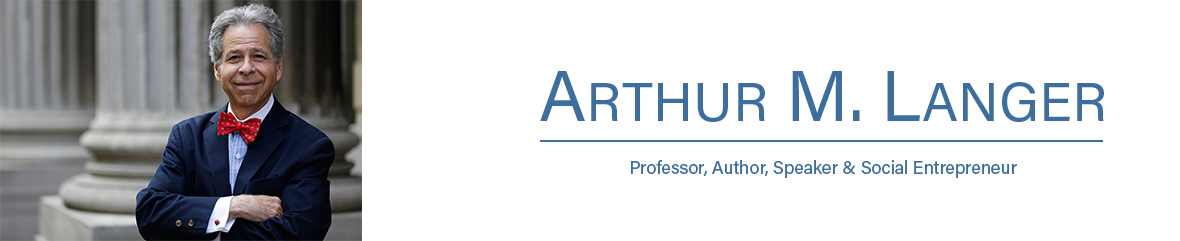
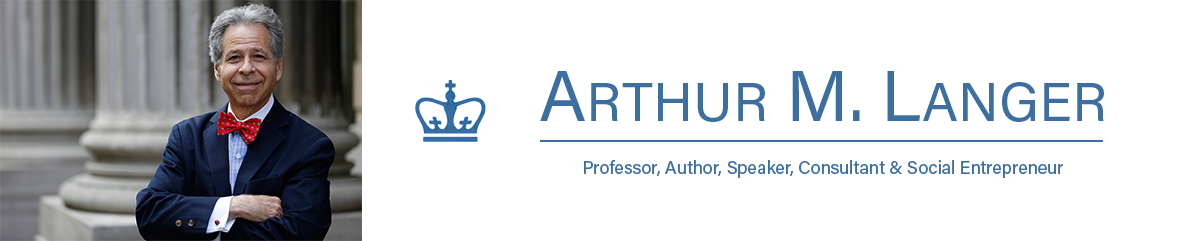
updated all page headers and footers to add consultant

Changed region(s): [[0.4881, 0.668, 0.9153, 0.7261], [0.3356, 0.3485, 0.4271, 0.61]]

diff --git a/index.html b/index.html
@@ -34,7 +34,7 @@
 </head>
 
 <body>
-    <div><a href="index.html"><img class="img-responsive img-center" src="images/Home Page Top2.png"></a></div>
+    <div><a href="index.html"><img class="img-responsive img-center" src="images/Home Page Top.png"></a></div>
 
     <!-- Navigation -->
     <nav class="navbar navbar-default" role="navigation">
@@ -55,9 +55,6 @@
             <div class="collapse navbar-collapse" id="bs-example-navbar-collapse-1">
                 <ul class="nav navbar-nav">
                     <li>
-                        <a href="about-art.html">About Art</a>
-                    </li>
-                    <li>
                         <a href="professor.html">Professor</a>
                     </li>
                     <li>
@@ -65,6 +62,9 @@
                     </li>
                     <li>
                         <a href="speaking.html">Speaker</a>
+                    </li>
+                    <li>
+                        <a href="about-art.html#alanger_associates">Consultant</a>
                     </li>
                     <li>
                         <a href="social-entrepreneur.html">Social Entrepreneur</a>
@@ -182,6 +182,7 @@
                         <p><strong>Phone (O): </strong>212-854-5218</p>
                         <p><strong>Phone (M): </strong>914-261-6142</p>
                         <p><a href="https://www.linkedin.com/in/arthur-langer-1ba610">LinkedIn Profile</a></p>
+                        <p><a href="about-art.html">About Art</a></p>
                     </div>
                     <div class="col-lg-8 publications">
                         <div class="col-lg-12">
@@ -217,9 +218,6 @@
         <div class="container">
             <div class="row">
                 <div class="col-lg-2 text-center">
-                    <a href="about-art.html"><p>About Art</p></a>
-                </div>
-                <div class="col-lg-2 text-center">
                     <a href="professor.html"><p>Professor</p></a>
                 </div>
                 <div class="col-lg-2 text-center">
@@ -227,6 +225,9 @@
                 </div>
                 <div class="col-lg-2 text-center">
                     <a href="speaking.html"><p>Speaker</p></a>
+                </div>
+                <div class="col-lg-2 text-center">
+                    <a href="about-art.html#alanger_associates"><p>Consultant</p></a>
                 </div>
                 <div class="col-lg-2 text-center">
                     <a href="social-Entrepreneur.html"><p>Social Entrepreneur</p></a>

diff --git a/professor.html b/professor.html
@@ -34,7 +34,7 @@
 </head>
 
 <body>
-    <div><a href="index.html"><img class="img-responsive img-center" src="images/Home Page Top 2.png"></a></div>
+    <div><a href="index.html"><img class="img-responsive img-center" src="images/Home Page Top.png"></a></div>
 
     <!-- Navigation -->
     <nav class="navbar navbar-default" role="navigation">
@@ -54,9 +54,6 @@
             <div class="collapse navbar-collapse" id="bs-example-navbar-collapse-1">
                 <ul class="nav navbar-nav">
                     <li>
-                        <a href="about-art.html">About Art</a>
-                    </li>
-                    <li>
                         <a href="professor.html">Professor</a>
                     </li>
                     <li>
@@ -64,6 +61,9 @@
                     </li>
                     <li>
                         <a href="speaking.html">Speaker</a>
+                    </li>
+                    <li>
+                        <a href="about-art.html#alanger_associates">Consultant</a>
                     </li>
                     <li>
                         <a href="social-entrepreneur.html">Social Entrepreneur</a>
@@ -118,9 +118,6 @@
         <div class="container">
             <div class="row">
                 <div class="col-lg-2 text-center">
-                    <a href="about-art.html"><p>About Art</p></a>
-                </div>
-                <div class="col-lg-2 text-center">
                     <a href="professor.html"><p>Professor</p></a>
                 </div>
                 <div class="col-lg-2 text-center">
@@ -128,6 +125,9 @@
                 </div>
                 <div class="col-lg-2 text-center">
                     <a href="speaking.html"><p>Speaker</p></a>
+                </div>
+                <div class="col-lg-2 text-center">
+                    <a href="about-art.html#alanger_associates"><p>Consultant</p></a>
                 </div>
                 <div class="col-lg-2 text-center">
                     <a href="social-Entrepreneur.html"><p>Social Entrepreneur</p></a>

diff --git a/research-publications-articles.html b/research-publications-articles.html
@@ -34,7 +34,7 @@
 </head>
 
 <body>
-    <div><a href="index.html"><img class="img-responsive img-center" src="images/Home Page Top 2.png"></a></div>
+    <div><a href="index.html"><img class="img-responsive img-center" src="images/Home Page Top.png"></a></div>
 
     <!-- Navigation -->
     <nav class="navbar navbar-default" role="navigation">
@@ -54,9 +54,6 @@
             <div class="collapse navbar-collapse" id="bs-example-navbar-collapse-1">
                 <ul class="nav navbar-nav">
                     <li>
-                        <a href="about-art.html">About Art</a>
-                    </li>
-                    <li>
                         <a href="professor.html">Professor</a>
                     </li>
                     <li>
@@ -64,6 +61,9 @@
                     </li>
                     <li>
                         <a href="speaking.html">Speaker</a>
+                    </li>
+                    <li>
+                        <a href="about-art.html#alanger_associates">Consultant</a>
                     </li>
                     <li>
                         <a href="social-entrepreneur.html">Social Entrepreneur</a>
@@ -130,9 +130,6 @@
         <div class="container">
             <div class="row">
                 <div class="col-lg-2 text-center">
-                    <a href="about-art.html"><p>About Art</p></a>
-                </div>
-                <div class="col-lg-2 text-center">
                     <a href="professor.html"><p>Professor</p></a>
                 </div>
                 <div class="col-lg-2 text-center">
@@ -140,6 +137,9 @@
                 </div>
                 <div class="col-lg-2 text-center">
                     <a href="speaking.html"><p>Speaker</p></a>
+                </div>
+                <div class="col-lg-2 text-center">
+                    <a href="about-art.html#alanger_associates"><p>Consultant</p></a>
                 </div>
                 <div class="col-lg-2 text-center">
                     <a href="social-Entrepreneur.html"><p>Social Entrepreneur</p></a>

diff --git a/social-entrepreneur.html b/social-entrepreneur.html
@@ -34,7 +34,7 @@
 </head>
 
 <body>
-    <div><a href="index.html"><img class="img-responsive img-center" src="images/Home Page Top 2.png"></a></div>
+    <div><a href="index.html"><img class="img-responsive img-center" src="images/Home Page Top.png"></a></div>
 
     <!-- Navigation -->
     <nav class="navbar navbar-default" role="navigation">
@@ -54,9 +54,6 @@
             <div class="collapse navbar-collapse" id="bs-example-navbar-collapse-1">
                 <ul class="nav navbar-nav">
                     <li>
-                        <a href="about-art.html">About Art</a>
-                    </li>
-                    <li>
                         <a href="professor.html">Professor</a>
                     </li>
                     <li>
@@ -64,6 +61,9 @@
                     </li>
                     <li>
                         <a href="speaking.html">Speaker</a>
+                    </li>
+                    <li>
+                        <a href="about-art.html#alanger_associates">Consultant</a>
                     </li>
                     <li>
                         <a href="social-entrepreneur.html">Social Entrepreneur</a>
@@ -119,9 +119,6 @@
         <div class="container">
             <div class="row">
                 <div class="col-lg-2 text-center">
-                    <a href="about-art.html"><p>About Art</p></a>
-                </div>
-                <div class="col-lg-2 text-center">
                     <a href="professor.html"><p>Professor</p></a>
                 </div>
                 <div class="col-lg-2 text-center">
@@ -129,6 +126,9 @@
                 </div>
                 <div class="col-lg-2 text-center">
                     <a href="speaking.html"><p>Speaker</p></a>
+                </div>
+                <div class="col-lg-2 text-center">
+                    <a href="about-art.html#alanger_associates"><p>Consultant</p></a>
                 </div>
                 <div class="col-lg-2 text-center">
                     <a href="social-Entrepreneur.html"><p>Social Entrepreneur</p></a>

diff --git a/speaking.html b/speaking.html
@@ -34,7 +34,7 @@
 </head>
 
 <body>
-    <div><a href="index.html"><img class="img-responsive img-center" src="images/Home Page Top 2.png"></a></div>
+    <div><a href="index.html"><img class="img-responsive img-center" src="images/Home Page Top.png"></a></div>
 
     <!-- Navigation -->
     <nav class="navbar navbar-default" role="navigation">
@@ -54,9 +54,6 @@
             <div class="collapse navbar-collapse" id="bs-example-navbar-collapse-1">
                 <ul class="nav navbar-nav">
                     <li>
-                        <a href="about-art.html">About Art</a>
-                    </li>
-                    <li>
                         <a href="professor.html">Professor</a>
                     </li>
                     <li>
@@ -64,6 +61,9 @@
                     </li>
                     <li>
                         <a href="speaking.html">Speaker</a>
+                    </li>
+                    <li>
+                        <a href="about-art.html#alanger_associates">Consultant</a>
                     </li>
                     <li>
                         <a href="social-entrepreneur.html">Social Entrepreneur</a>
@@ -159,9 +159,6 @@
         <div class="container">
             <div class="row">
                 <div class="col-lg-2 text-center">
-                    <a href="about-art.html"><p>About Art</p></a>
-                </div>
-                <div class="col-lg-2 text-center">
                     <a href="professor.html"><p>Professor</p></a>
                 </div>
                 <div class="col-lg-2 text-center">
@@ -169,6 +166,9 @@
                 </div>
                 <div class="col-lg-2 text-center">
                     <a href="speaking.html"><p>Speaker</p></a>
+                </div>
+                <div class="col-lg-2 text-center">
+                    <a href="about-art.html#alanger_associates"><p>Consultant</p></a>
                 </div>
                 <div class="col-lg-2 text-center">
                     <a href="social-Entrepreneur.html"><p>Social Entrepreneur</p></a>

diff --git a/about-art.html b/about-art.html
@@ -34,7 +34,7 @@
 </head>
 
 <body>
-    <div><a href="index.html"><img class="img-responsive img-center" src="images/Home Page Top2.png"></a></div>
+    <div><a href="index.html"><img class="img-responsive img-center" src="images/Home Page Top.png"></a></div>
 
     <!-- Navigation -->
     <nav class="navbar navbar-default" role="navigation">
@@ -54,9 +54,6 @@
             <div class="collapse navbar-collapse" id="bs-example-navbar-collapse-1">
                 <ul class="nav navbar-nav">
                     <li>
-                        <a href="about-art.html">About Art</a>
-                    </li>
-                    <li>
                         <a href="professor.html">Professor</a>
                     </li>
                     <li>
@@ -64,6 +61,9 @@
                     </li>
                     <li>
                         <a href="speaking.html">Speaker</a>
+                    </li>
+                    <li>
+                        <a href="about-art.html#alanger_associates">Consultant</a>
                     </li>
                     <li>
                         <a href="social-entrepreneur.html">Social Entrepreneur</a>
@@ -138,9 +138,6 @@
         <div class="container">
             <div class="row">
                 <div class="col-lg-2 text-center">
-                    <a href="about-art.html"><p>About Art</p></a>
-                </div>
-                <div class="col-lg-2 text-center">
                     <a href="professor.html"><p>Professor</p></a>
                 </div>
                 <div class="col-lg-2 text-center">
@@ -148,6 +145,9 @@
                 </div>
                 <div class="col-lg-2 text-center">
                     <a href="speaking.html"><p>Speaker</p></a>
+                </div>
+                <div class="col-lg-2 text-center">
+                    <a href="about-art.html#alanger_associates"><p>Consultant</p></a>
                 </div>
                 <div class="col-lg-2 text-center">
                     <a href="social-Entrepreneur.html"><p>Social Entrepreneur</p></a>
